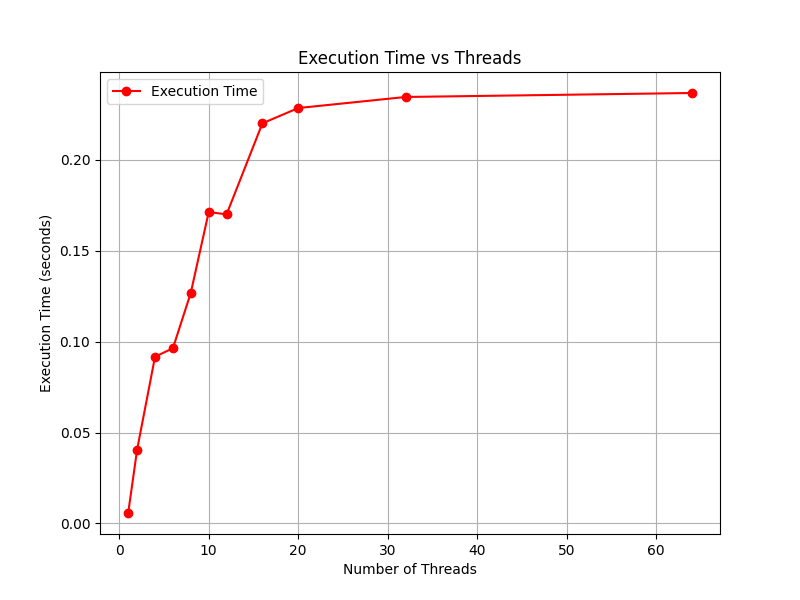
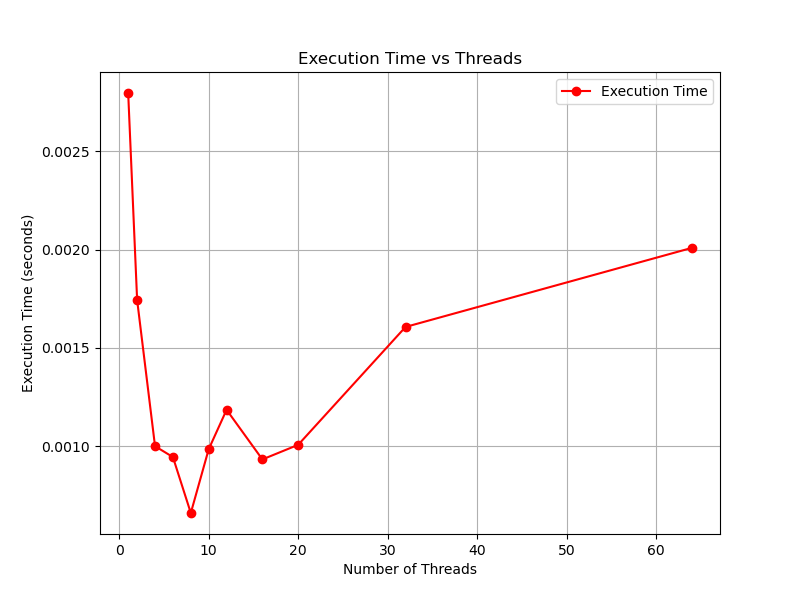
added t2

diff --git a/tutorial_2/using_critical/sum_of_n_critical.cpp b/tutorial_2/using_critical/sum_of_n_critical.cpp
@@ -32,12 +32,16 @@ int main(int argc, char* argv[]) {
     double sum = 0;
     double start_time = omp_get_wtime();
 
-    #pragma omp parallel for
-    for (size_t i = 0; i < a.size(); i++) {
+    #pragma omp parallel
+    {
+        double local_sum = 0;
+        #pragma omp for
+        for (size_t i = 0; i < a.size(); i++) {
+            local_sum += a[i];
+        }
         #pragma omp critical
-        sum += a[i];  // Ensuring only one thread updates `sum` at a time
+        sum += local_sum;
     }
-
     double end_time = omp_get_wtime();
     double elapsed_time = end_time - start_time;
 
